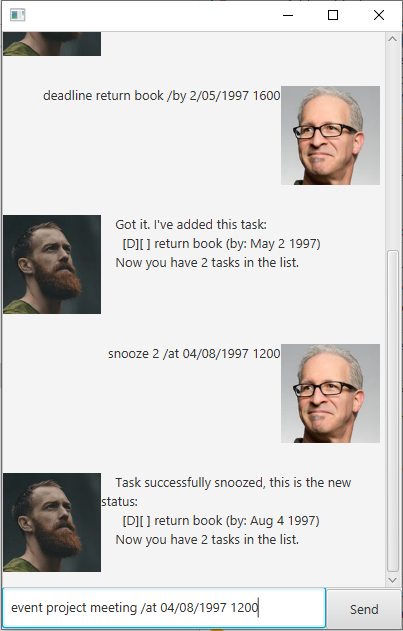
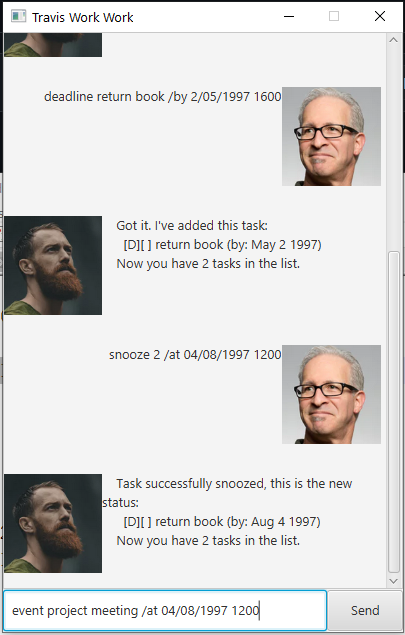
Add name to window, update ui.png

diff --git a/src/main/java/src/duke/Main.java b/src/main/java/src/duke/Main.java
@@ -9,7 +9,6 @@ import javafx.scene.Scene;
 import javafx.scene.layout.AnchorPane;
 import javafx.stage.Stage;
 
-
 /**
  * A GUI for Duke using FXML.
  */
@@ -23,7 +22,9 @@ public class Main extends Application {
             FXMLLoader fxmlLoader = new FXMLLoader(Main.class.getResource("/view/MainWindow.fxml"));
             AnchorPane ap = fxmlLoader.load();
             Scene scene = new Scene(ap);
+            stage.setTitle("Travis Work Work");
             stage.setScene(scene);
+            stage.setResizable(false);
             fxmlLoader.<MainWindow>getController().setDuke(duke);
             stage.show();
         } catch (IOException e) {
